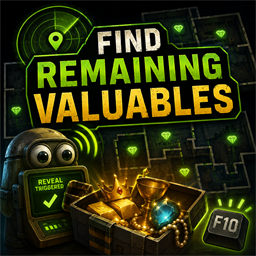
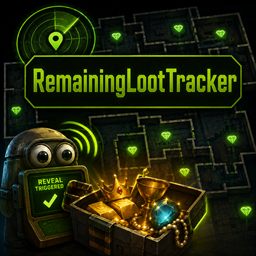
add find button

diff --git a/Plugin.cs b/Plugin.cs
@@ -18,7 +18,7 @@ public sealed class Plugin : BaseUnityPlugin
 {
     internal const string PluginGuid = "DarkSpider90.RemainingValueTracker";
     internal const string PluginName = "Remaining Value Tracker";
-    internal const string PluginVersion = "0.1.0";
+    internal const string PluginVersion = "0.1.1";
 
     private const float DefaultScanInterval = 0.5f;
     private static readonly Color MessageColor = new(0.8f, 1f, 0.35f);
@@ -40,6 +40,7 @@ public sealed class Plugin : BaseUnityPlugin
     private ConfigEntry<TrackingMode> _trackingMode;
     private ConfigEntry<float> _triggerPercent;
     private ConfigEntry<float> _scanInterval;
+    private ConfigEntry<KeyboardShortcut> _revealHotkey;
     private ConfigEntry<bool> _showMessage;
     private ConfigEntry<float> _messageDuration;
     private ConfigEntry<string> _messageText;
@@ -83,6 +84,11 @@ public sealed class Plugin : BaseUnityPlugin
             new ConfigDescription(
                 "Seconds between tracker checks.",
                 new AcceptableValueRange<float>(0.1f, 5f)));
+        _revealHotkey = Config.Bind(
+            "Controls",
+            "Reveal Hotkey",
+            new KeyboardShortcut(KeyCode.F10),
+            "Press this key to reveal all remaining valuables immediately, as if the configured threshold was reached.");
         _showMessage = Config.Bind("UI", "Show Message", true, "Show a top-center message when remaining valuables are revealed.");
         _messageDuration = Config.Bind(
             "UI",
@@ -133,6 +139,11 @@ public sealed class Plugin : BaseUnityPlugin
             ResetRound(currentLevelId);
         }
 
+        if (TryRevealByHotkey())
+        {
+            return;
+        }
+
         if (_revealed || Time.time < _nextScanTime)
         {
             return;
@@ -162,6 +173,24 @@ public sealed class Plugin : BaseUnityPlugin
             Log.LogInfo($"Reveal threshold reached: {progress.Percent:0.##}% >= {triggerPercent:0.##}%.");
             RevealRemaining();
         }
+    }
+
+    private bool TryRevealByHotkey()
+    {
+        if (_revealed || !_revealHotkey.Value.IsDown())
+        {
+            return false;
+        }
+
+        if (!_snapshotReady && !TryBuildSnapshot())
+        {
+            Log.LogWarning("Reveal hotkey was pressed, but valuables are not ready to scan yet.");
+            return false;
+        }
+
+        Log.LogInfo("Reveal hotkey pressed.");
+        RevealRemaining();
+        return true;
     }
 
     private static bool LevelIsReady()

diff --git a/CHANGELOG.md b/CHANGELOG.md
@@ -1,5 +1,10 @@
 # Changelog
 
+## 0.1.1
+
+- Added a configurable reveal hotkey.
+- Default reveal hotkey is F10.
+
 ## 0.1.0
 
 - Initial implementation.

diff --git a/README.md b/README.md
@@ -10,6 +10,7 @@ The config file is generated as `BepInEx/config/DarkSpider90.RemainingValueTrack
 - `Tracking Mode`: `Value` tracks discovered value, `Count` tracks discovered item count.
 - `Trigger Percent`: percent that must be discovered before the rest is revealed. Default is `85`.
 - `Scan Interval`: seconds between progress checks.
+- `Reveal Hotkey`: key used to reveal all remaining valuables manually. Default is `F10`.
 - `Show Message`: shows a top-center message when the reveal happens.
 - `Message Text`: text shown by the reveal message.
 - `Debug Logs`: writes progress details to the BepInEx log.